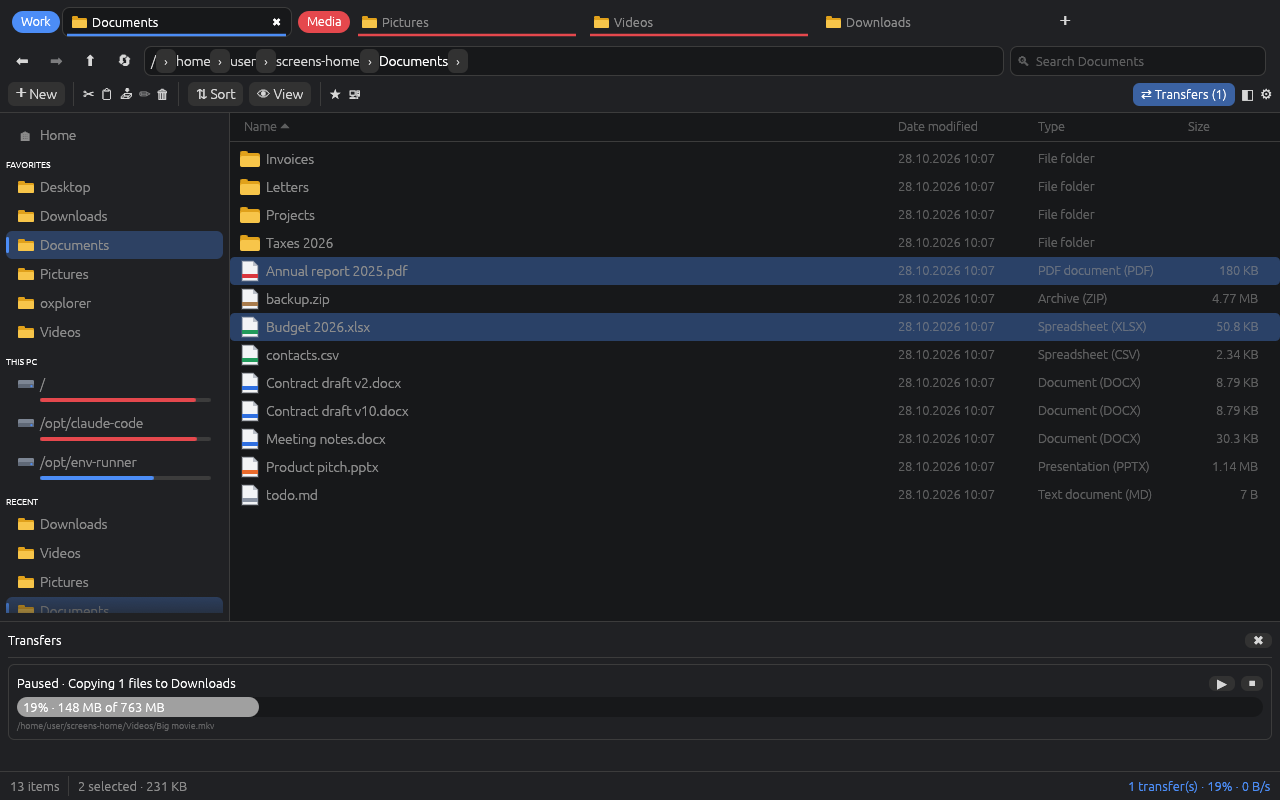
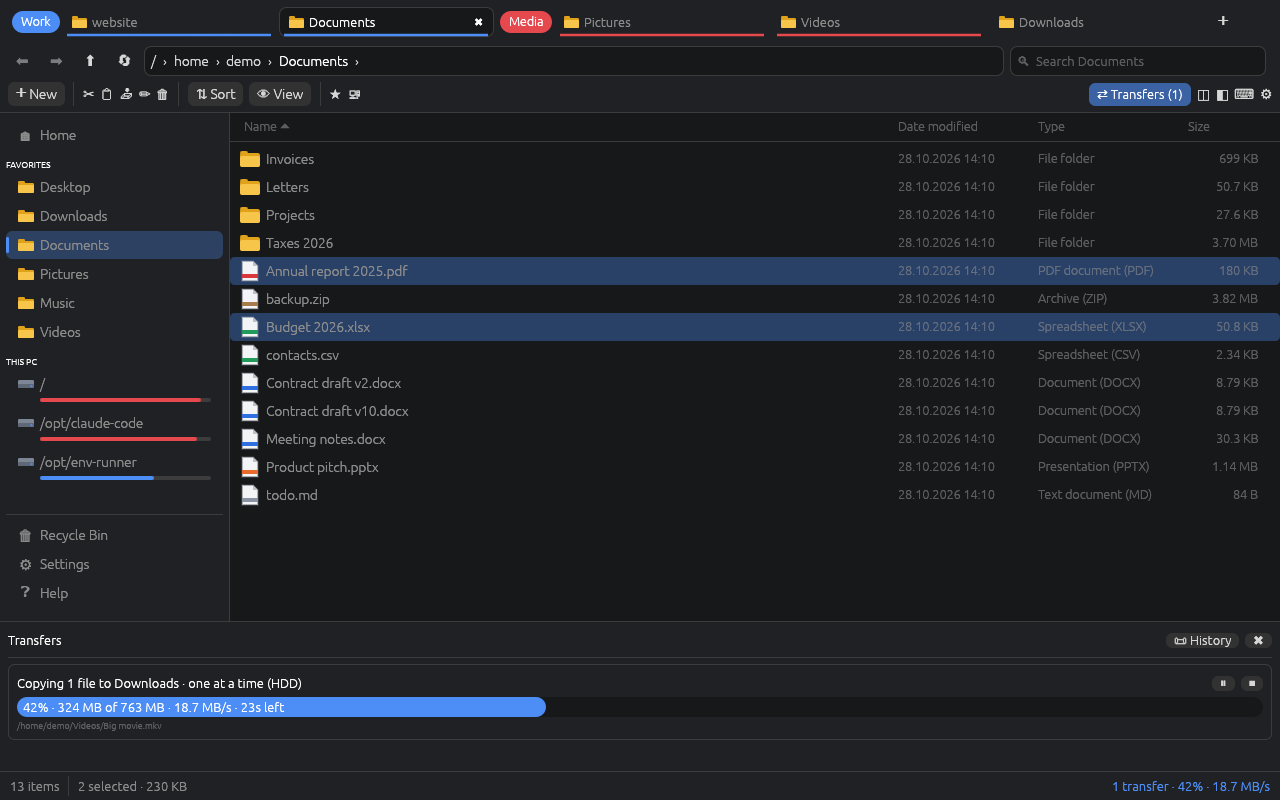
README: new screenshots for 1.0
All screenshots retaken with the current interface and a realistic demo
home folder: tab groups with a running transfer, Home, grid view with
thumbnails, index search with filter chips, preview pane, Git status with
tags and folder sizes, split view, Recycle Bin and Settings. New: font
glyph grid, Nord theme with code preview, Help page, German interface.

Claude-Session: https://claude.ai/code/session_01JhC5pE5QkCwAoRhu7kWUap

diff --git a/README.md b/README.md
@@ -7,7 +7,7 @@ quick-access start page, much faster search and its own copy engine. When you
 copy or move files you don't get the slow Windows copy dialog. A multi-threaded
 Rust engine does the work and shows progress in a panel inside the window.
 
-![Details view with tab groups and a paused transfer](docs/screenshots/details-dark.png)
+![Details view with tab groups, a selection and a running transfer](docs/screenshots/details-dark.png)
 
 ## Download
 
@@ -152,19 +152,23 @@ Help page, messages and key names (*Strg+C*, *Entf*), and numbers use a decimal 
 - Browsing, startup, sidebar, copy engine and search options, plus a list of keyboard shortcuts
 - Saved as TOML in `%APPDATA%\Oxplorer\`
 
-| Home / Quick access | Grid view (light) |
+| Home / Quick access | Grid view with thumbnails (light) |
 |---|---|
-| ![Home](docs/screenshots/home-dark.png) | ![Grid](docs/screenshots/grid-light.png) |
-| **Recycle Bin** | **Settings** |
-| ![Recycle Bin](docs/screenshots/recycle-bin-dark.png) | ![Settings](docs/screenshots/settings-light.png) |
-| **Search as you type, filter chips, saved searches** | **Preview pane** |
+| ![Home](docs/screenshots/home-dark.png) | ![Grid with thumbnails](docs/screenshots/grid-light.png) |
+| **Search: deep search from the index, filter chips** | **Preview pane** |
 | ![Search](docs/screenshots/search-dark.png) | ![Preview](docs/screenshots/preview-dark.png) |
-| **Colour tags and folder sizes** | **Split view** |
-| ![Tags and folder sizes](docs/screenshots/tags-sizes-dark.png) | ![Split view](docs/screenshots/split-dark.png) |
+| **Git status, colour tags and folder sizes** | **Split view** |
+| ![Git, tags and folder sizes](docs/screenshots/tags-sizes-dark.png) | ![Split view](docs/screenshots/split-dark.png) |
+| **Font preview with the Glyphs grid** | **Nord theme and code preview** |
+| ![Font glyphs](docs/screenshots/fonts-dark.png) | ![Nord theme](docs/screenshots/theme-nord.png) |
+| **Recycle Bin** | **Settings (light)** |
+| ![Recycle Bin](docs/screenshots/recycle-bin-dark.png) | ![Settings](docs/screenshots/settings-light.png) |
+| **Help page (F1)** | **German interface** |
+| ![Help](docs/screenshots/help-dark.png) | ![German](docs/screenshots/german-dark.png) |
 
-*The screenshots were taken on Linux during development, which is why the drives
-show as mount points and the built-in icons are used. On Windows the drives show
-as `Local Disk (C:)` and so on, with the real Windows file icons.*
+*The screenshots were taken on Linux, which is why the drives show as mount points and the
+built-in icons are used. On Windows the drives show as `Local Disk (C:)` and so on, with
+the real Windows file icons and thumbnails.*
 
 ## Building
 
